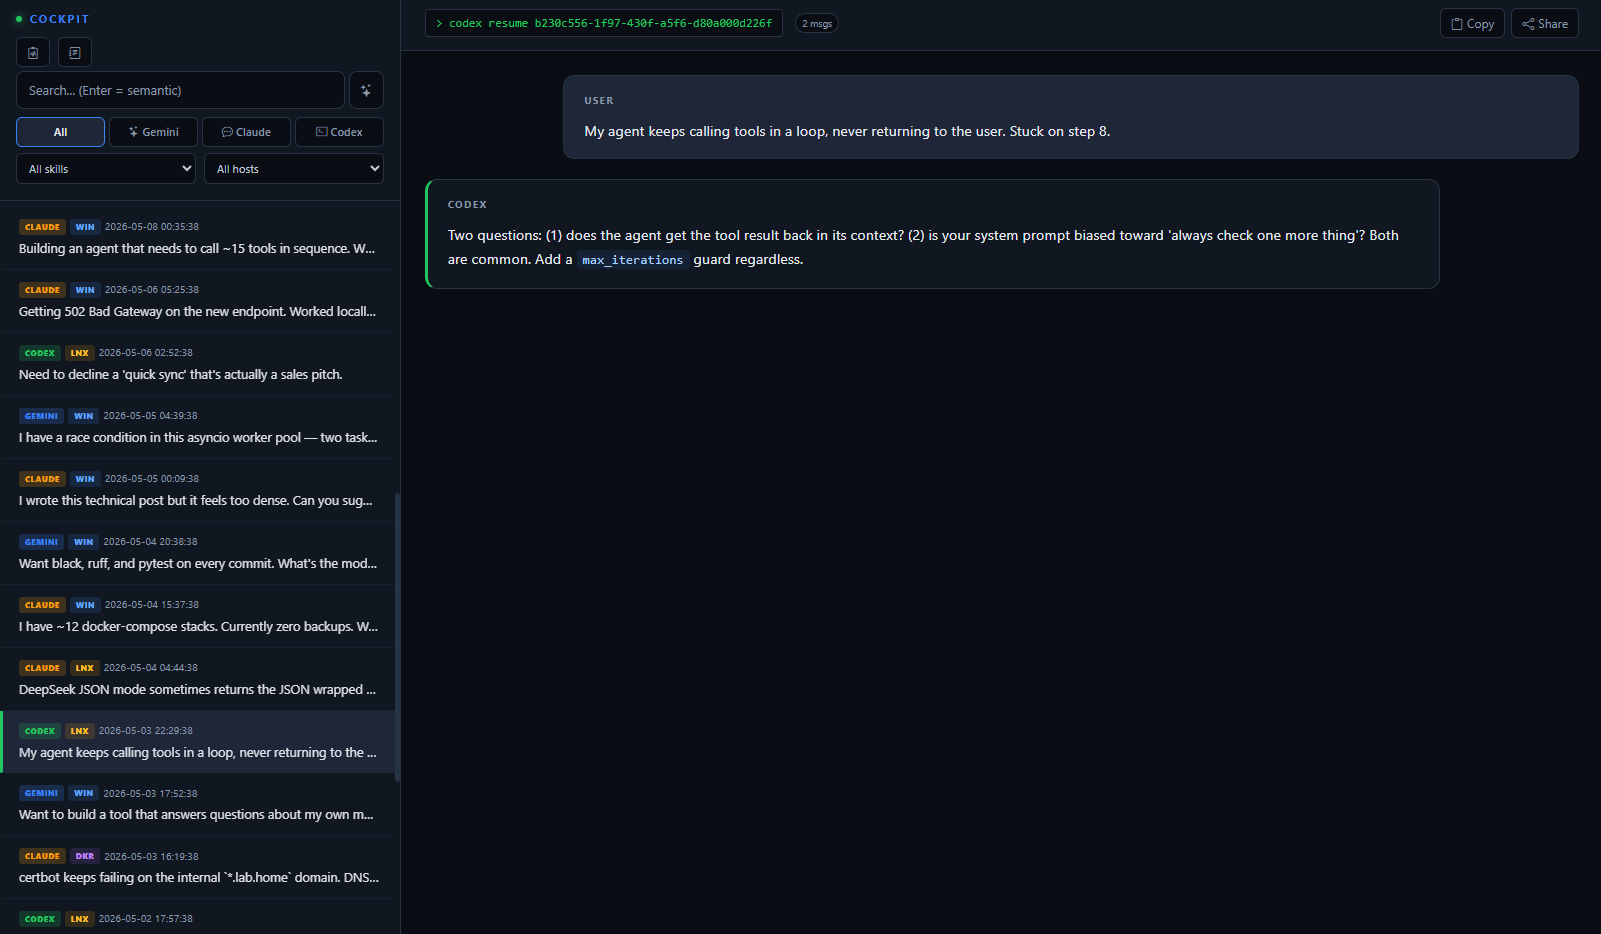
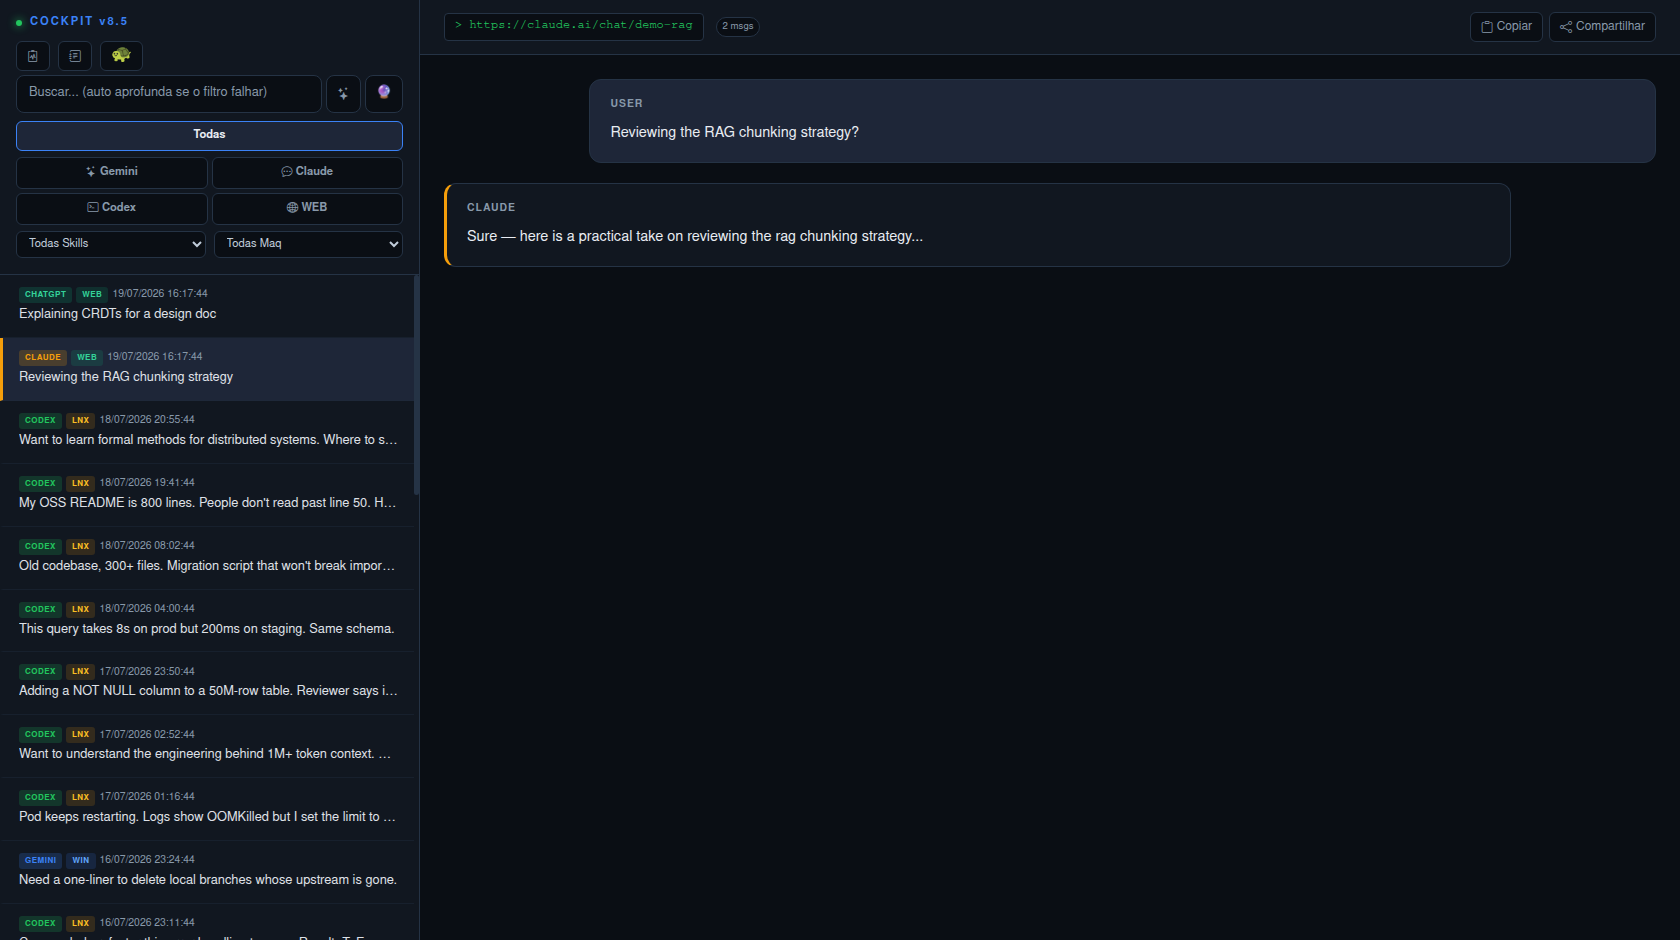
docs: replace all screenshots with fresh demo-data captures
Old captures were from v5.x and showed features/layouts that no longer
match the code. New set is taken against the seeded demo instance (no
real data): sidebar+WEB chat with original-URL header, Ask the
Panopticon, daily audit dashboard, memory profile, and the two-layer
injected memory view. Also fix a stale user-memory.md label.

diff --git a/app/cockpit.py b/app/cockpit.py
@@ -2131,7 +2131,7 @@ pre{background:#010409;padding:14px;border-radius:8px;border:1px solid #1e2a3a;o
                 html += '<div style="font-size:0.7rem;color:#6a7a8a;margin:-6px 0 16px;">Dynamic assistant context: long-term core plus recent working memory. Static identity/profile data stays separate.</div>';
                 html += '<div class="dna-section"><strong>📌 LONGO PRAZO &mdash; core (só muda por contradição)</strong>';
                 html += `<div style="font-size:0.9rem;margin-top:6px;">${coreMd ? marked.parse(coreMd) : '<em style="color:#6a7a8a;">Núcleo ainda não gerado — roda 23:45.</em>'}</div></div>`;
-                html += '<div class="dna-section" style="margin-top:16px;"><strong>🗓️ CURTO PRAZO &mdash; user-memory.md (janela 30 dias)</strong>';
+                html += '<div class="dna-section" style="margin-top:16px;"><strong>🗓️ CURTO PRAZO &mdash; user-memoria.md (janela 30 dias)</strong>';
                 html += `<div style="font-size:0.9rem;margin-top:6px;">${memMd ? marked.parse(memMd) : '<em style="color:#6a7a8a;">Sem memória de curto prazo.</em>'}</div></div>`;
                 html += '</div>';
                 container.innerHTML = html;